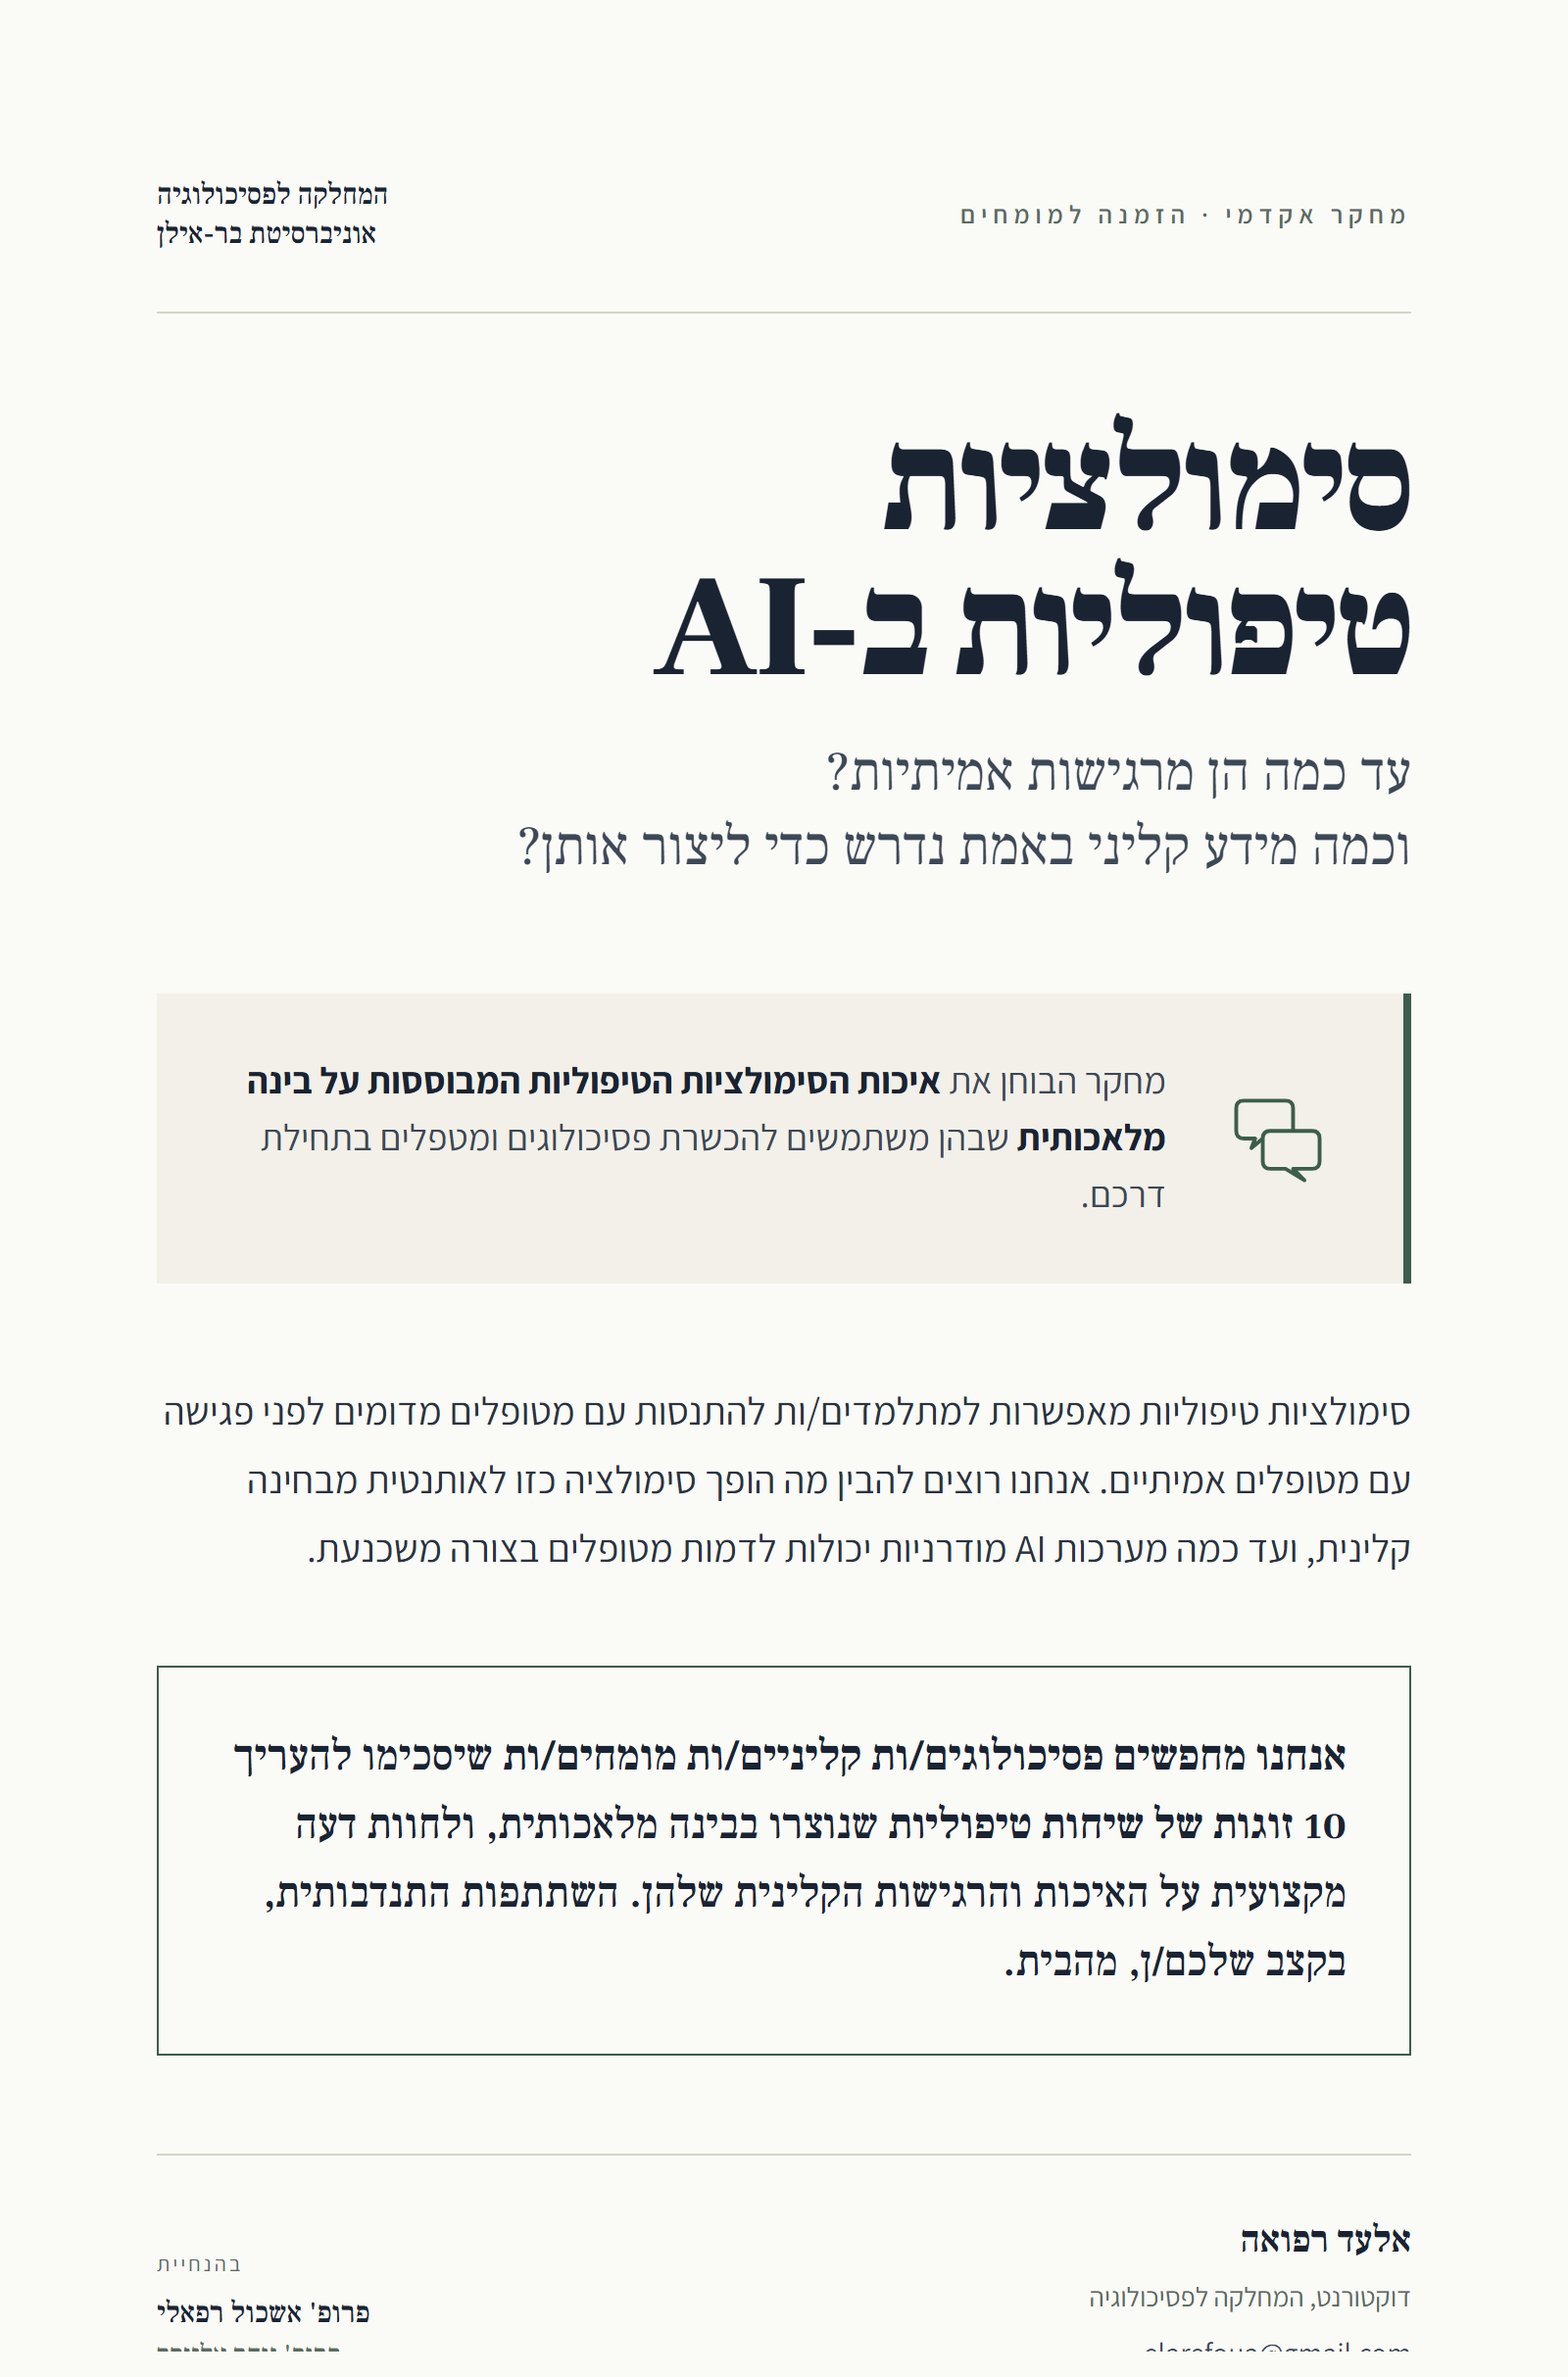
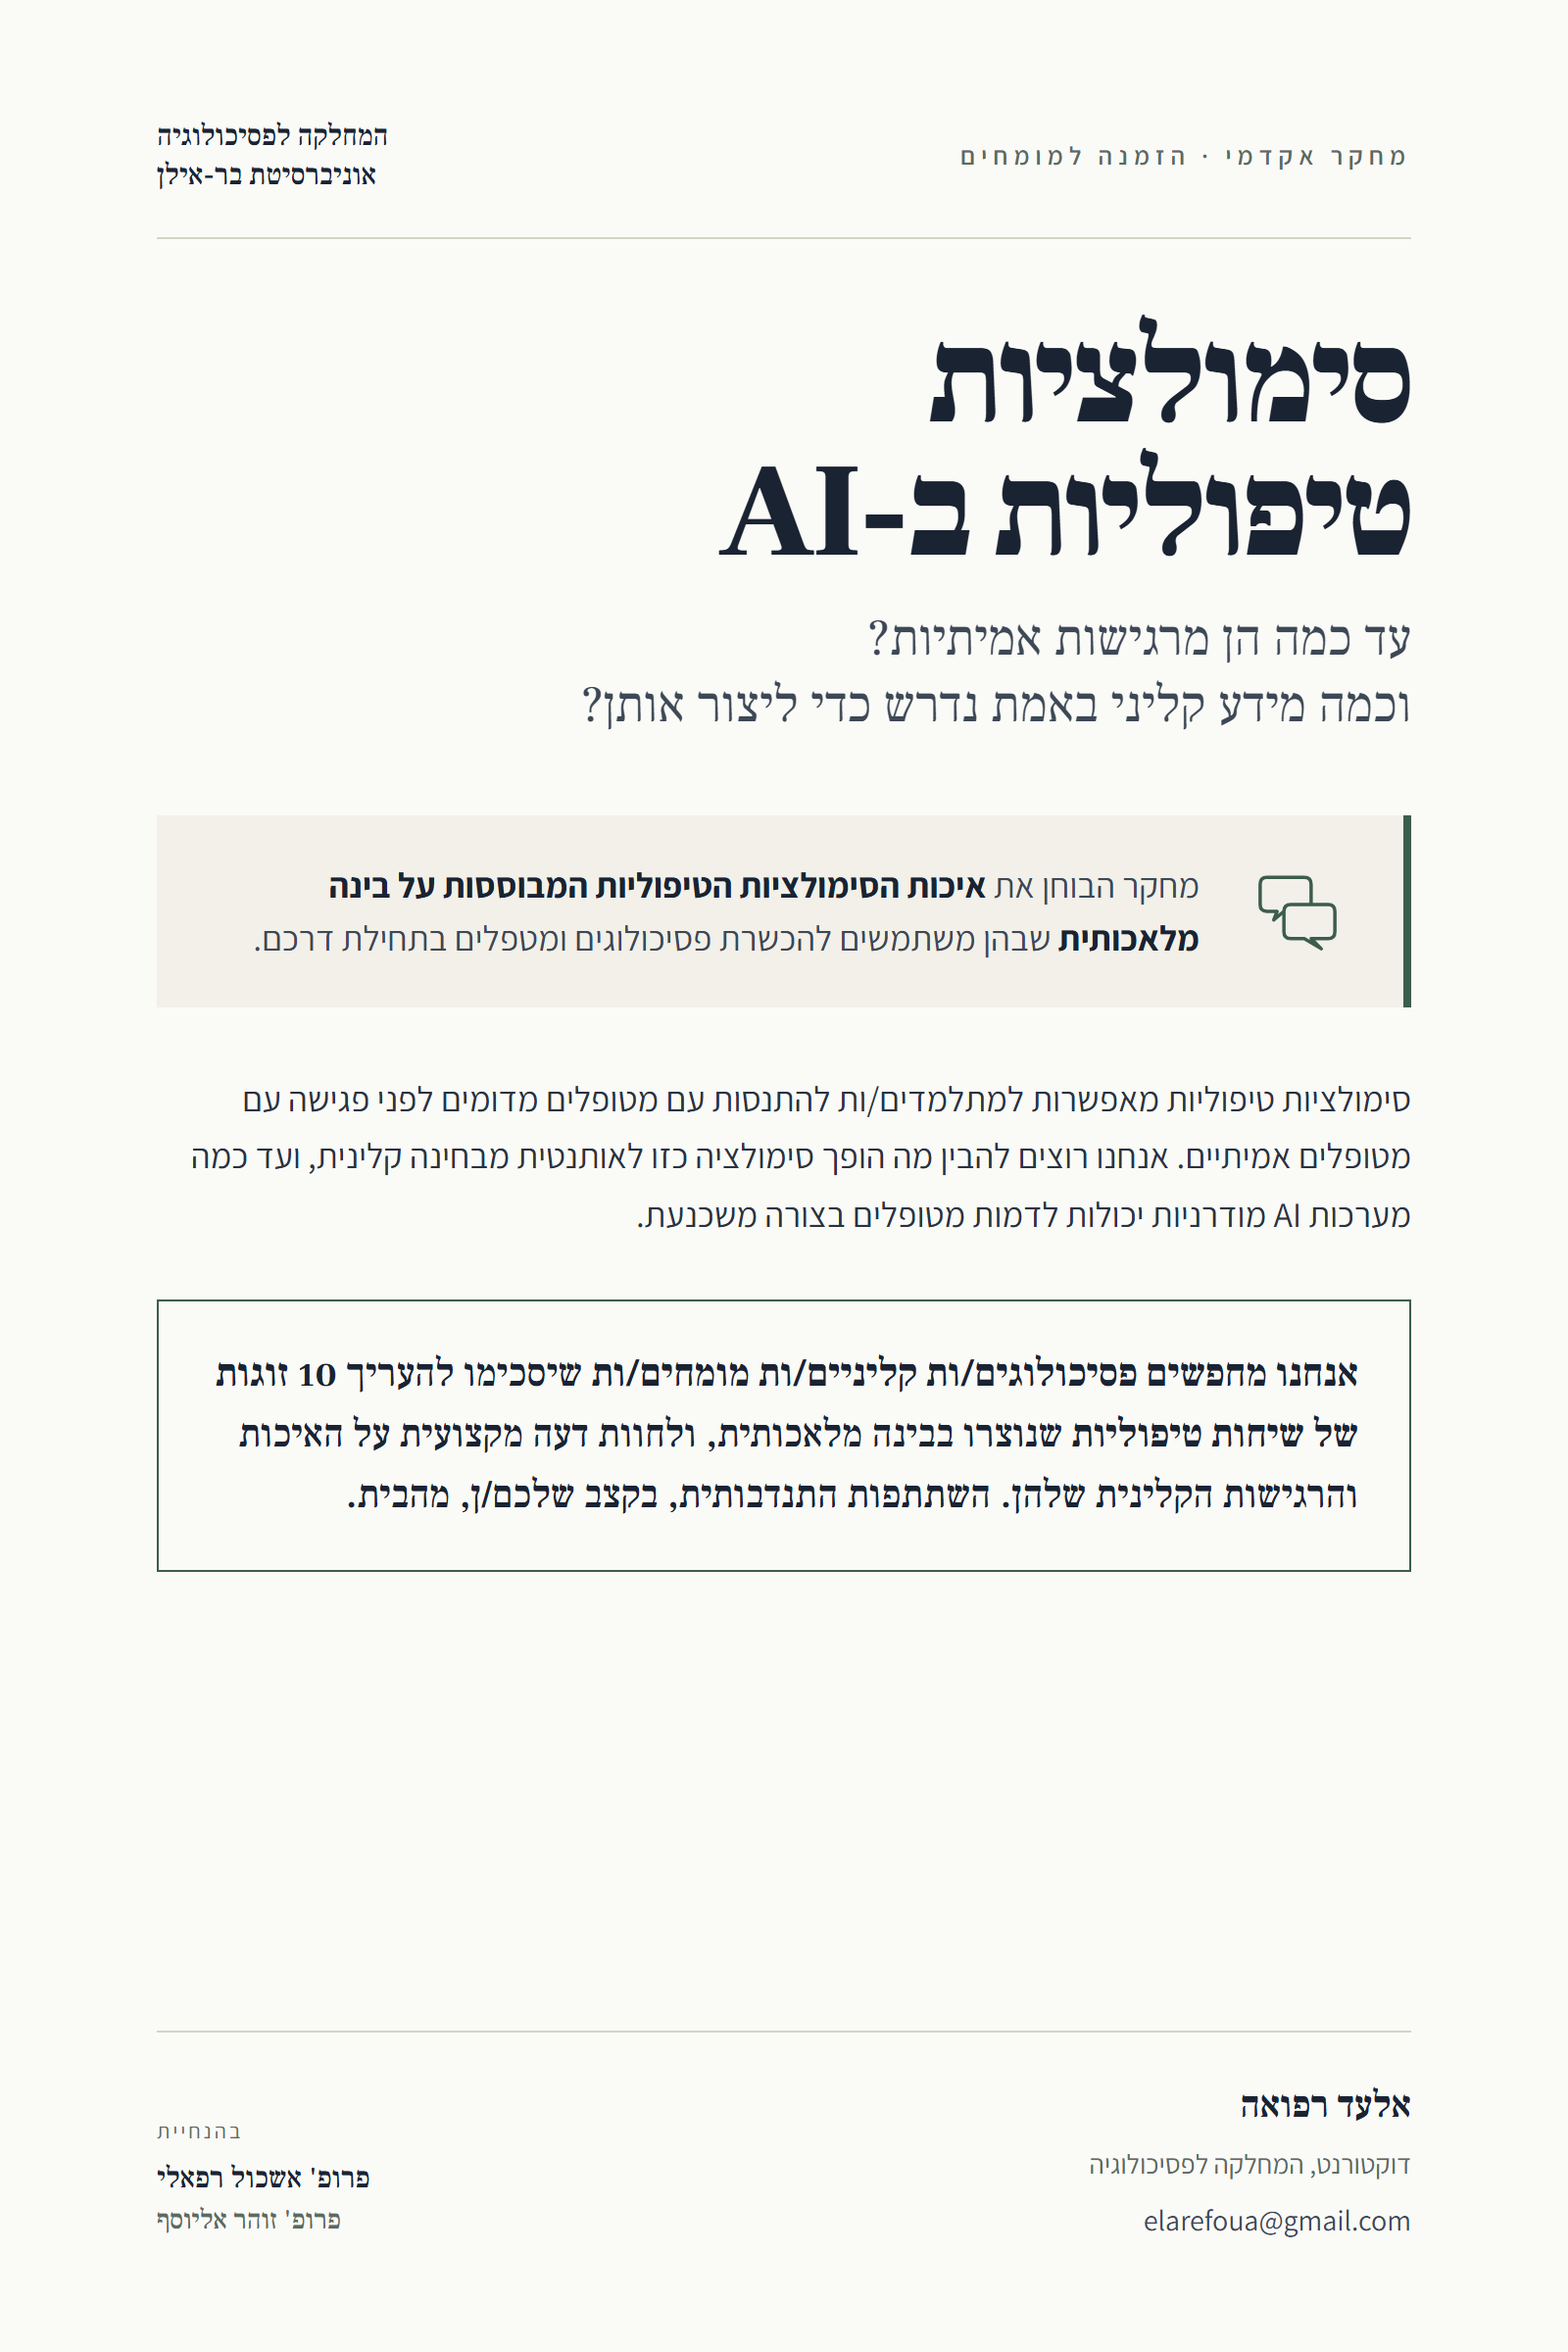
Fix flyer: contact footer was cut at bottom
Tightened HTML layout so all content fits within 1200px viewport.
Footer with name, advisors, and email now visible.

diff --git a/yuval-package/flyer-v2.html b/yuval-package/flyer-v2.html
@@ -17,7 +17,7 @@
   .flyer {
     width: 800px;
     height: 1200px;
-    padding: 90px 80px 70px 80px;
+    padding: 60px 80px 55px 80px;
     display: flex;
     flex-direction: column;
     position: relative;
@@ -29,9 +29,9 @@
     display: flex;
     justify-content: space-between;
     align-items: center;
-    padding-bottom: 30px;
+    padding-bottom: 22px;
     border-bottom: 1px solid #D4D4C8;
-    margin-bottom: 50px;
+    margin-bottom: 38px;
   }
   .top-strip .label {
     font-size: 13px;
@@ -52,21 +52,21 @@
   /* Headline */
   h1 {
     font-family: 'Frank Ruhl Libre', serif;
-    font-size: 74px;
+    font-size: 68px;
     font-weight: 900;
     line-height: 1.0;
     color: #1a2332;
-    margin-bottom: 18px;
+    margin-bottom: 14px;
     letter-spacing: -2px;
   }
 
   .deck {
     font-family: 'Frank Ruhl Libre', serif;
-    font-size: 28px;
+    font-size: 26px;
     font-weight: 400;
     color: #3d4856;
-    line-height: 1.35;
-    margin-bottom: 55px;
+    line-height: 1.3;
+    margin-bottom: 38px;
     max-width: 580px;
   }
 
@@ -74,22 +74,22 @@
   .symbol-block {
     display: flex;
     align-items: center;
-    gap: 28px;
-    margin-bottom: 48px;
-    padding: 30px 35px;
+    gap: 24px;
+    margin-bottom: 32px;
+    padding: 22px 28px;
     background: #F2F0E8;
     border-right: 4px solid #3d5d4c;
   }
   .symbol-block svg {
     flex-shrink: 0;
-    width: 58px;
-    height: 58px;
+    width: 52px;
+    height: 52px;
   }
   .symbol-block .caption {
     font-family: 'Assistant', sans-serif;
-    font-size: 19px;
+    font-size: 18px;
     color: #3d4856;
-    line-height: 1.55;
+    line-height: 1.5;
     font-weight: 400;
   }
   .symbol-block .caption strong {
@@ -100,10 +100,10 @@
   /* Body */
   .body-text {
     font-family: 'Assistant', sans-serif;
-    font-size: 20px;
-    line-height: 1.75;
+    font-size: 18px;
+    line-height: 1.65;
     color: #2a3341;
-    margin-bottom: 42px;
+    margin-bottom: 28px;
     font-weight: 400;
   }
   .body-text strong {
@@ -114,27 +114,27 @@
   /* The ask */
   .ask {
     font-family: 'Frank Ruhl Libre', serif;
-    font-size: 22px;
+    font-size: 20px;
     color: #1a2332;
-    line-height: 1.6;
-    padding: 28px 32px;
+    line-height: 1.55;
+    padding: 22px 26px;
     background: transparent;
     border: 1.5px solid #3d5d4c;
-    margin-bottom: 50px;
+    margin-bottom: 32px;
     font-weight: 500;
   }
   .ask strong {
     font-weight: 700;
   }
 
-  .spacer { flex: 1; }
+  .spacer { flex: 1; min-height: 0; }
 
   /* Footer */
   .footer {
     display: flex;
     justify-content: space-between;
     align-items: flex-end;
-    padding-top: 28px;
+    padding-top: 22px;
     border-top: 1px solid #D4D4C8;
   }
   .contact {
